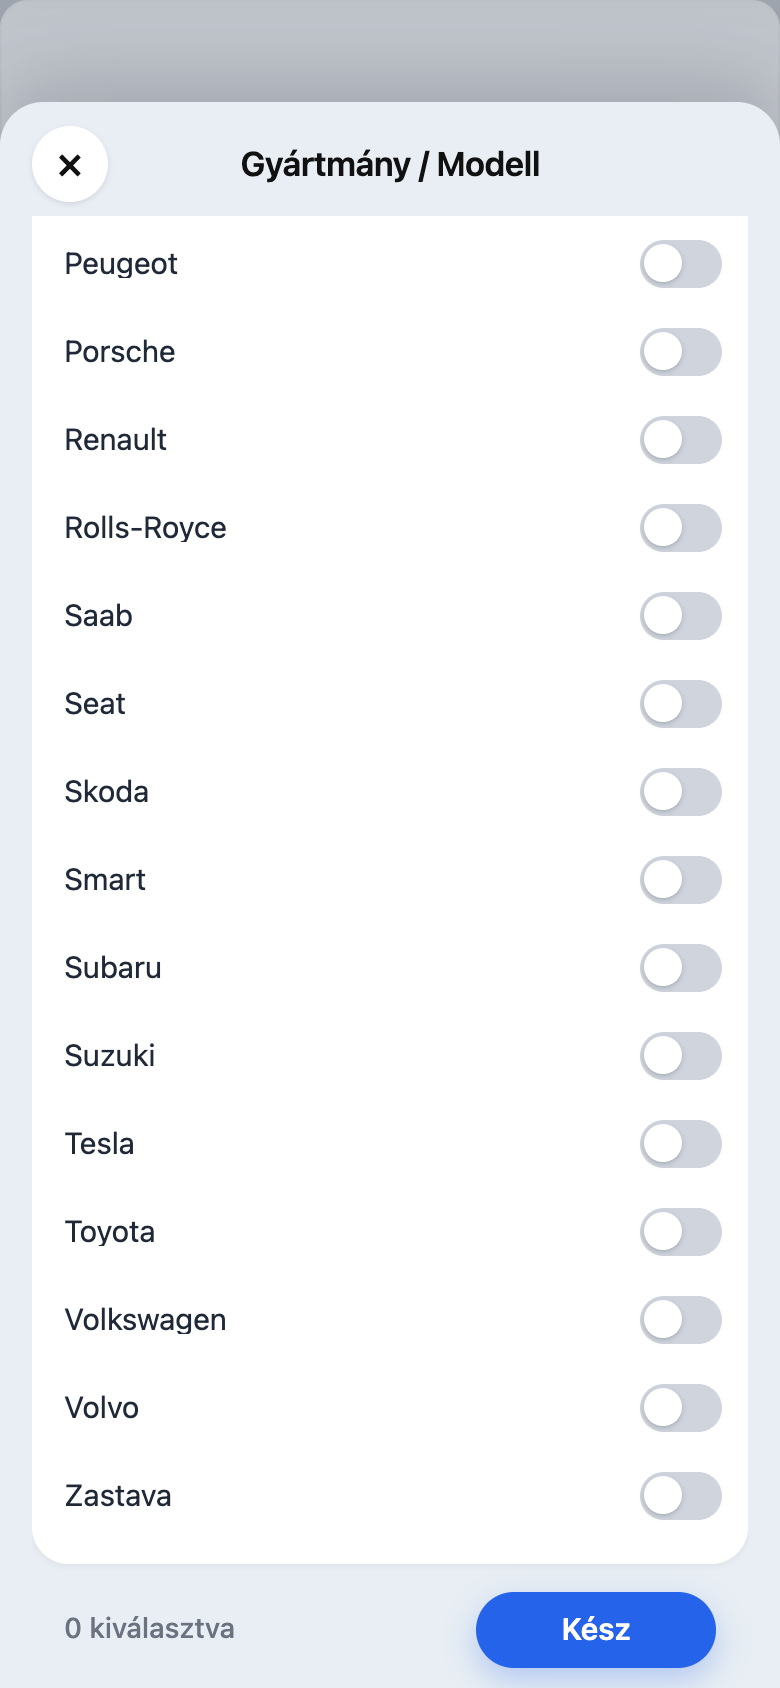
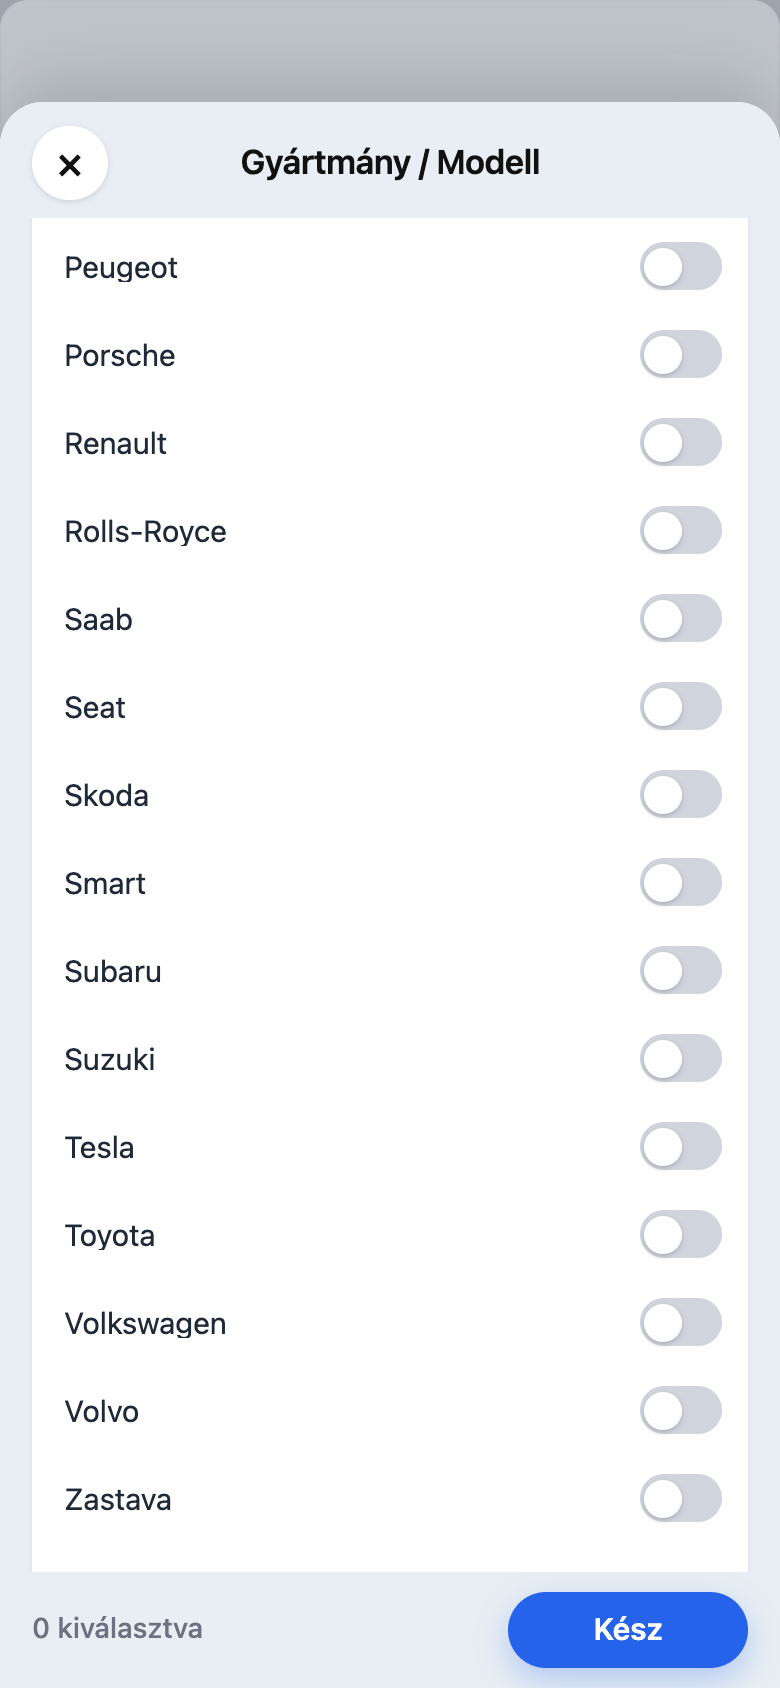
Make brand sheet blue fill full height under sliding white.
Overlay fixed head/foot on the blue stage and let the white card fill down under the footer so side gutters run top to bottom.

diff --git a/public/css/ingatlan-search.css b/public/css/ingatlan-search.css
@@ -1570,13 +1570,16 @@ body[data-site-page="ingatlan"] .immo-schema-cell:has(.telepules-suggest:not([hi
   font-size: 1.05rem;
 }
 
-/* AutoScout-stílusú gyártmány sheet: fix fejléc + kék lábléc;
-   középen a fehér kártya a kék felett csúszik fel a tetejéig — szélesség állandó */
+/* AutoScout-stílusú gyártmány sheet:
+   kék stage végig (tetejétől aljáig); fej + láb ráül;
+   fehér kártya állandó szélességgel a kéken csúszik fel / kitölti a magasságot */
 .auto-drum-portal--sheet .auto-drum-portal__backdrop {
   background: rgba(15, 23, 42, 0.22);
 }
 
 .auto-drum-portal--sheet .auto-drum-portal__stage--sheet {
+  --sheet-head-h: 3.65rem;
+  --sheet-foot-h: 4.6rem;
   left: 50% !important;
   right: auto !important;
   top: auto !important;
@@ -1586,29 +1589,31 @@ body[data-site-page="ingatlan"] .immo-schema-cell:has(.telepules-suggest:not([hi
   max-width: 100vw !important;
   height: min(94vh, 54rem);
   max-height: 94vh;
-  display: flex !important;
-  flex-direction: column !important;
-  align-items: stretch !important;
-  gap: 0 !important;
-  padding: 0.65rem 1rem 0;
+  display: block !important;
+  padding: 0 !important;
   box-sizing: border-box;
   background: #e8eef3;
   border-radius: 1.35rem 1.35rem 0 0;
   box-shadow: 0 -12px 36px rgba(15, 23, 42, 0.18);
   overflow: hidden;
+  position: absolute;
+  container-type: size;
 }
 
 .auto-drum-portal--sheet .auto-drum-portal__sheet-head {
-  flex: 0 0 auto;
-  position: relative;
+  position: absolute;
+  top: 0;
+  left: 0;
+  right: 0;
   z-index: 3;
   display: grid;
   grid-template-columns: 2.5rem 1fr 2.5rem;
   align-items: center;
   gap: 0.5rem;
-  margin: 0 0 0.45rem;
-  padding: 0.15rem 0 0;
-  background: transparent;
+  margin: 0;
+  padding: 0.75rem 1rem 0.55rem;
+  box-sizing: border-box;
+  background: #e8eef3;
 }
 
 .auto-drum-portal--sheet .auto-drum-portal__close {
@@ -1639,10 +1644,11 @@ body[data-site-page="ingatlan"] .immo-schema-cell:has(.telepules-suggest:not([hi
   height: 2.35rem;
 }
 
-/* Középső kék zóna: ez görög — a fehér kártya itt csúszik a kék tetejéig */
+/* Teljes kék stage fölött görög — a fehér felcsúszik / leér a lábléc alá */
 .auto-drum-portal--sheet .auto-drum-portal__sheet-scroll {
-  flex: 1 1 auto;
-  min-height: 0;
+  position: absolute;
+  inset: 0;
+  z-index: 1;
   overflow-x: hidden;
   overflow-y: auto;
   -webkit-overflow-scrolling: touch;
@@ -1651,7 +1657,8 @@ body[data-site-page="ingatlan"] .immo-schema-cell:has(.telepules-suggest:not([hi
   flex-direction: column;
   align-items: stretch;
   gap: 0;
-  padding: 0 0 0.35rem;
+  margin: 0;
+  padding: var(--sheet-head-h) 1rem 0;
   box-sizing: border-box;
   background: transparent;
 }
@@ -1665,18 +1672,20 @@ body[data-site-page="ingatlan"] .immo-schema-cell:has(.telepules-suggest:not([hi
   background: transparent;
 }
 
-/* Fehér kártya: állandó szélesség, tartalom magasság — nem belső scroll */
+/* Fehér: állandó szélesség, kitölti a kéket fentről le a lábléc alá */
 .auto-drum-portal--sheet .auto-drum-portal__ring--sheet,
 .auto-drum-portal--sheet .auto-drum-portal__ring--multi {
   width: 100% !important;
   max-width: 100% !important;
   min-width: 0 !important;
-  min-height: 0 !important;
   height: auto !important;
   max-height: none !important;
-  flex: 0 0 auto !important;
+  flex: 1 0 auto !important;
+  min-height: calc(100cqh - var(--sheet-head-h)) !important;
+  margin: 0 !important;
+  padding-bottom: var(--sheet-foot-h) !important;
   border: 0 !important;
-  border-radius: 1.15rem !important;
+  border-radius: 1.15rem 1.15rem 0 0 !important;
   background: #fff !important;
   box-shadow: 0 1px 3px rgba(15, 23, 42, 0.06) !important;
   overflow: hidden !important;
@@ -1709,7 +1718,7 @@ body[data-site-page="ingatlan"] .immo-schema-cell:has(.telepules-suggest:not([hi
 }
 
 .auto-drum-portal--sheet[data-sheet-view="models"] .auto-drum-portal__ring--sheet {
-  border-radius: 1.15rem !important;
+  border-radius: 1.15rem 1.15rem 0 0 !important;
 }
 
 .auto-drum-portal--sheet .auto-drum-portal__toolbar .auto-drum-portal__back,
@@ -1782,16 +1791,19 @@ body[data-site-page="ingatlan"] .immo-schema-cell:has(.telepules-suggest:not([hi
 }
 
 .auto-drum-portal--sheet .auto-drum-portal__sheet-foot {
-  flex: 0 0 auto;
+  position: absolute;
+  left: 0;
+  right: 0;
+  bottom: 0;
+  z-index: 4;
   display: flex;
   align-items: center;
   justify-content: space-between;
   gap: 0.75rem;
-  margin-top: 0;
+  margin: 0;
   padding: 0.65rem 1rem calc(0.65rem + env(safe-area-inset-bottom, 0px));
+  box-sizing: border-box;
   background: #e8eef3;
-  position: relative;
-  z-index: 4;
 }
 
 .auto-drum-portal--sheet .auto-drum-portal__count {

diff --git a/public/js/ad-form-bm-pickers.js b/public/js/ad-form-bm-pickers.js
@@ -2380,7 +2380,7 @@ async function mountAdBrandModelCombined(form, catalog) {
   }
 
   const { fillWheel, setWheelValue, readWheel } = await import("./ingatlan-wheels.js?v=immoClearAll1");
-  const { openBrandModelCatalogSheet } = await import("./auto-drum-sheet.js?v=bmSheet6");
+  const { openBrandModelCatalogSheet } = await import("./auto-drum-sheet.js?v=bmSheet7");
   const { initDrumWheel, syncDrumWheelDisplay } = await import("./immo-drum-picker.js?v=immoClear1");
 
   const brands = [...(catalog?.gyartmanyok || [])].sort((a, b) =>
@@ -2543,7 +2543,7 @@ async function mountAdSelectDrum(select, {
   select.dataset.adBmDrum = "1";
 
   const { fillWheel, setWheelValue, readWheel } = await import("./ingatlan-wheels.js?v=immoClearAll1");
-  const { openStandaloneSwitchSheet, bindAutoDrumSheet } = await import("./auto-drum-sheet.js?v=bmSheet6");
+  const { openStandaloneSwitchSheet, bindAutoDrumSheet } = await import("./auto-drum-sheet.js?v=bmSheet7");
   const { initDrumWheel, syncDrumWheelDisplay } = await import("./immo-drum-picker.js?v=immoClear1");
 
   const wrap = document.createElement("div");
@@ -2762,7 +2762,7 @@ async function mountAdSplitYmDrum({
   }
 
   const { fillWheel, setWheelValue, readWheel } = await import("./ingatlan-wheels.js?v=immoClearAll1");
-  const { openAutoDrumSheet } = await import("./auto-drum-sheet.js?v=bmSheet6");
+  const { openAutoDrumSheet } = await import("./auto-drum-sheet.js?v=bmSheet7");
   const { initDrumWheel, syncDrumWheelDisplay } = await import("./immo-drum-picker.js?v=immoClear1");
 
   const yearOpts = optionsFromSelect(ev, emptyYear);
@@ -2889,7 +2889,7 @@ async function mountMuszakiDateTripleDrum(form) {
 
   const { fillWheel, setWheelValue, readWheel } = await import("./ingatlan-wheels.js?v=immoClearAll1");
   const { openAutoDrumSheet, bindAutoDrumSheet } = await import(
-    "./auto-drum-sheet.js?v=bmSheet6"
+    "./auto-drum-sheet.js?v=bmSheet7"
   );
   const { initDrumWheel, syncDrumWheelDisplay } = await import("./immo-drum-picker.js?v=immoClear1");
 

diff --git a/public/hirdetesfeladas.html b/public/hirdetesfeladas.html
@@ -158,10 +158,10 @@
     <link rel="stylesheet" href="/css/automax.css?v=automax20260720homelist" />
     <link rel="stylesheet" href="/css/site-app.css?v=navOneRow1" />
         <link rel="stylesheet" href="/css/site-desk-header.css?v=navOneRow1" />
-<link rel="stylesheet" href="/css/ingatlan-search.css?v=bmSheet6" />
-    <link rel="stylesheet" href="/css/ad-form-desk.css?v=bmSheet6" />
+<link rel="stylesheet" href="/css/ingatlan-search.css?v=bmSheet7" />
+    <link rel="stylesheet" href="/css/ad-form-desk.css?v=bmSheet7" />
     <link rel="stylesheet" href="/css/ad-form-address.css?v=addrFix1" />
-    <link rel="stylesheet" href="/css/ad-form-bm-pickers.css?v=bmSheet6" />
+    <link rel="stylesheet" href="/css/ad-form-bm-pickers.css?v=bmSheet7" />
     <link rel="stylesheet" href="/css/price-market-hint.css?v=priceHint5" />
     <link rel="stylesheet" href="/css/site-side.css?v=mwPostDesk1" />
     <link rel="stylesheet" href="/css/category-picker.css?v=mobMenuFix1" />
@@ -1096,9 +1096,9 @@
 
     <script src="/js/site-avatar-menu.js?v=avatarSync1" type="module"></script>
     <script src="/js/hirdetes-category-boot.js?v=pickerBoot4" type="module"></script>
-    <script src="/js/app.js?v=bmSheet6" type="module"></script>
+    <script src="/js/app.js?v=bmSheet7" type="module"></script>
       <script src="/js/nav-counts.js?v=bootFix2" type="module"></script>
       <script src="/js/theme.js?v=willhabenHdr1" type="module"></script>
-    <script src="/js/form-layout-apply.js?v=bmSheet6" type="module"></script>
+    <script src="/js/form-layout-apply.js?v=bmSheet7" type="module"></script>
 </body>
 </html>

diff --git a/public/js/form-layout-apply.js b/public/js/form-layout-apply.js
@@ -1,7 +1,7 @@
 import { ensureIngatlanFormFields } from "./ingatlan-form-fields.js?v=immoTipusPick1";
-import { refreshAdFormBmPickers } from "./ad-form-bm-pickers.js?v=bmSheet6";
+import { refreshAdFormBmPickers } from "./ad-form-bm-pickers.js?v=bmSheet7";
 import { initTireSizes } from "./tire-sizes-ui.js?v=tireFill1";
-import { applyAdFormDesk } from "./ad-form-desk.js?v=bmSheet6";
+import { applyAdFormDesk } from "./ad-form-desk.js?v=bmSheet7";
 import { markImmoPostViewReady } from "./category-picker.js?v=pickerBoot4";
 import {
   DESK_MUSZAKI_CORE_FIELD_KEYS,
@@ -13,7 +13,7 @@ import {
   applyStep1SearchDomOrder,
   isVehicleStep1Canvas,
   stackVehicleCanvasSingleColumn,
-} from "./ad-form-desk-pinned-blocks.js?v=bmSheet6";
+} from "./ad-form-desk-pinned-blocks.js?v=bmSheet7";
 
 function cssEscape(value) {
   if (window.CSS?.escape) return window.CSS.escape(value);

diff --git a/public/js/form-core.js b/public/js/form-core.js
@@ -23,9 +23,9 @@ import {
   DEFAULT_PHOTO_OVERLAY_ID,
   renderListingPhotoOverlay,
 } from "./listing-photo-overlay.js?v=photoOverlayIcons3";
-import { refreshAdFormBmPickers, applyAdFormBmFieldValues } from "./ad-form-bm-pickers.js?v=bmSheet6";
-import { applyAdFormDesk, isAdFormDesk } from "./ad-form-desk.js?v=bmSheet6";
-import { placeElectricBlockAfterFuel } from "./ad-form-desk-pinned-blocks.js?v=bmSheet6";
+import { refreshAdFormBmPickers, applyAdFormBmFieldValues } from "./ad-form-bm-pickers.js?v=bmSheet7";
+import { applyAdFormDesk, isAdFormDesk } from "./ad-form-desk.js?v=bmSheet7";
+import { placeElectricBlockAfterFuel } from "./ad-form-desk-pinned-blocks.js?v=bmSheet7";
 import { initKmInput, parseKmDigits, setKmInputValue } from "./km-input.js?v=kmFmt1";
 import {
   EV_FUEL_FIELD_IDS,

diff --git a/public/js/app.js b/public/js/app.js
@@ -11,7 +11,7 @@ import { applyImportedVehicleToSelects } from "./vehicle-catalog-client.js?v=imp
 import { initTireSizes } from "./tire-sizes-ui.js";
 import { initPhoneLanguages } from "./phone-lang-ui.js";
 import { initCategoryPicker } from "./category-picker.js?v=pickerBoot4";
-import { applyAdFormDesk, clearAdFormEditBoot, isDeskVehicleSubtype } from "./ad-form-desk.js?v=bmSheet6";
+import { applyAdFormDesk, clearAdFormEditBoot, isDeskVehicleSubtype } from "./ad-form-desk.js?v=bmSheet7";
 import {
   requireAuthForPage,
   getAuthUser,

diff --git a/public/js/ad-form-desk.js b/public/js/ad-form-desk.js
@@ -4,7 +4,7 @@ import {
   applyStep1SearchDomOrder,
   isVehicleStep1Canvas,
   stackVehicleCanvasSingleColumn,
-} from "./ad-form-desk-pinned-blocks.js?v=bmSheet6";
+} from "./ad-form-desk-pinned-blocks.js?v=bmSheet7";
 
 const DESK_MQ = "(min-width: 901px)";
 
